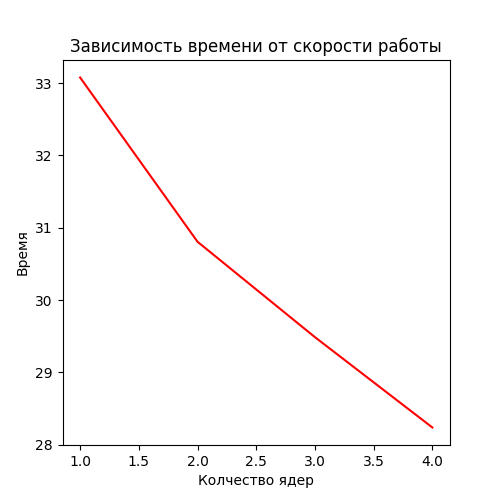
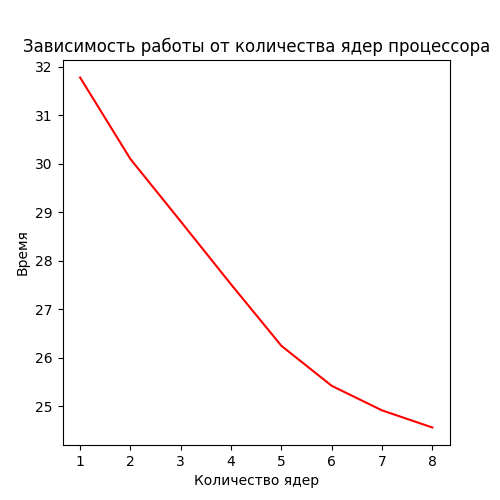
8 яд

diff --git a/main.py b/main.py
@@ -3,7 +3,7 @@ import json
 import logging
 
 from functions.search_card_number import card_number_selection
-from functions.lun import lun
+from functions.luhn import luhn
 from functions.statistic import get_stats
 
 
@@ -29,7 +29,7 @@ if __name__ == "__main__":
     )
     group.add_argument(
         "-l",
-        "--lun_alorithm",
+        "--luhn_alorithm",
         help="Проверить номер карты по алгоритму Луна",
         action="store_true",
     )
@@ -53,7 +53,7 @@ if __name__ == "__main__":
             settings["processes_amount"],
         )
     if args.lun_alorithm:
-        lun(number_card)
+        luhn(number_card)
     if args.statistic:
         get_stats(settings)
     else:

diff --git a/functions/search_card_number.py b/functions/search_card_number.py
@@ -4,7 +4,7 @@ from progress.bar import IncrementalBar
 import json
 import logging
 
-from lun import lun
+from luhn import luhn
 
 
 def check_number(tmp: list) -> int:
@@ -47,7 +47,7 @@ def card_number_selection(
                 p.terminate()
                 tmp = {}
                 tmp["number_card"] = str(result)
-                tmp["lun"] = lun(tmp["number_card"])
+                tmp["lun"] = luhn(tmp["number_card"])
                 with open("../files/result.json", "w") as f:
                     json.dump(tmp, f)
                 return result

diff --git a/functions/statistic.py b/functions/statistic.py
@@ -21,5 +21,9 @@ def get_stats(settings: dict) -> None:
     plt.ylabel("Время")
     plt.xlabel("Количество ядер")
     plt.title("Зависимость работы от количества ядер процессора")
-    plt.plot(list(x + 1 for x in range(settings["core"])), times[4:], color="red")
-    plt.savefig("files\grafic")
+    plt.plot(
+        list(x + 1 for x in range(settings["core"])),
+        times[settings["core"] :],
+        color="red",
+    )
+    plt.savefig("../files/grafic")

diff --git a/functions/luhn.py b/functions/luhn.py
@@ -1,7 +1,7 @@
 import logging
 
 
-def lun(number: str) -> bool:
+def luhn(number: str) -> bool:
     """Функция алгоритма Луна
     number - номер карты
     вернёт true если номер прошёл проверку и false иначе
